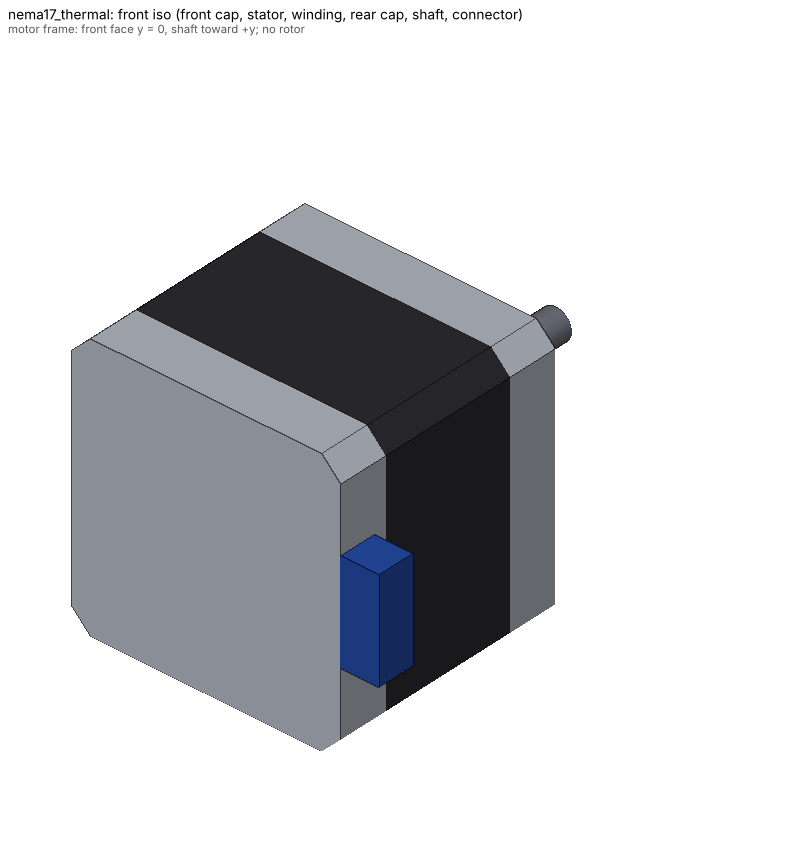
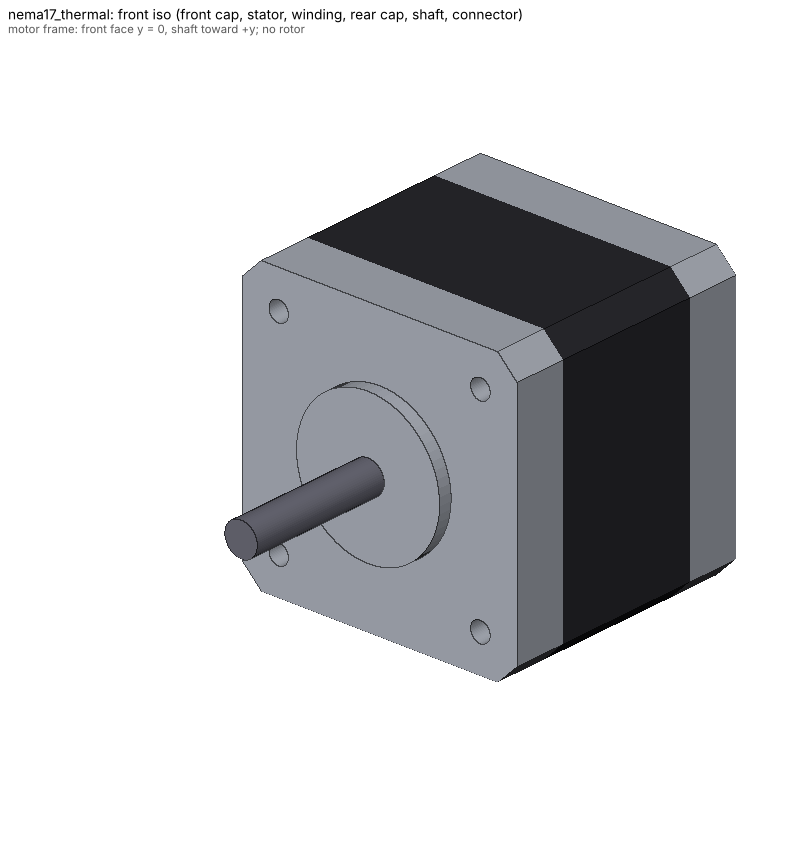
WIP: NEMA 17 thermal model update and renders from the implementer (in progress, unverified)
Claude-Session: https://claude.ai/code/session_012vxDhJBdXDDzxaEvKJXH5D

diff --git a/cad/parts/nema17_thermal.py b/cad/parts/nema17_thermal.py
@@ -229,7 +229,7 @@ def render_all(out_dir: str = RENDER_DIR) -> list:
     bodies = make_bodies()
     paths = []
     items = [(bodies[k], COLORS[k], 1.0, 0.03) for k in P.NEMA17T_BODIES]
-    for view, tag in (((0.55, -0.62, 0.56), "front_iso"), ((-0.55, 0.62, 0.40), "rear_iso")):
+    for view, tag in (((-0.55, 0.62, 0.40), "front_iso"), ((0.55, -0.62, 0.56), "rear_iso")):          # the front face (boss, shaft) points to +y
         p = os.path.join(out_dir, f"{NAME}_{tag}.png")
         E.render_scene(items, p, (view, (0, 0, 1)), f"{NAME}: {tag.replace('_', ' ')} (front cap, stator, winding, rear cap, shaft, connector)",
                        px=800, note="motor frame: front face y = 0, shaft toward +y; no rotor")
